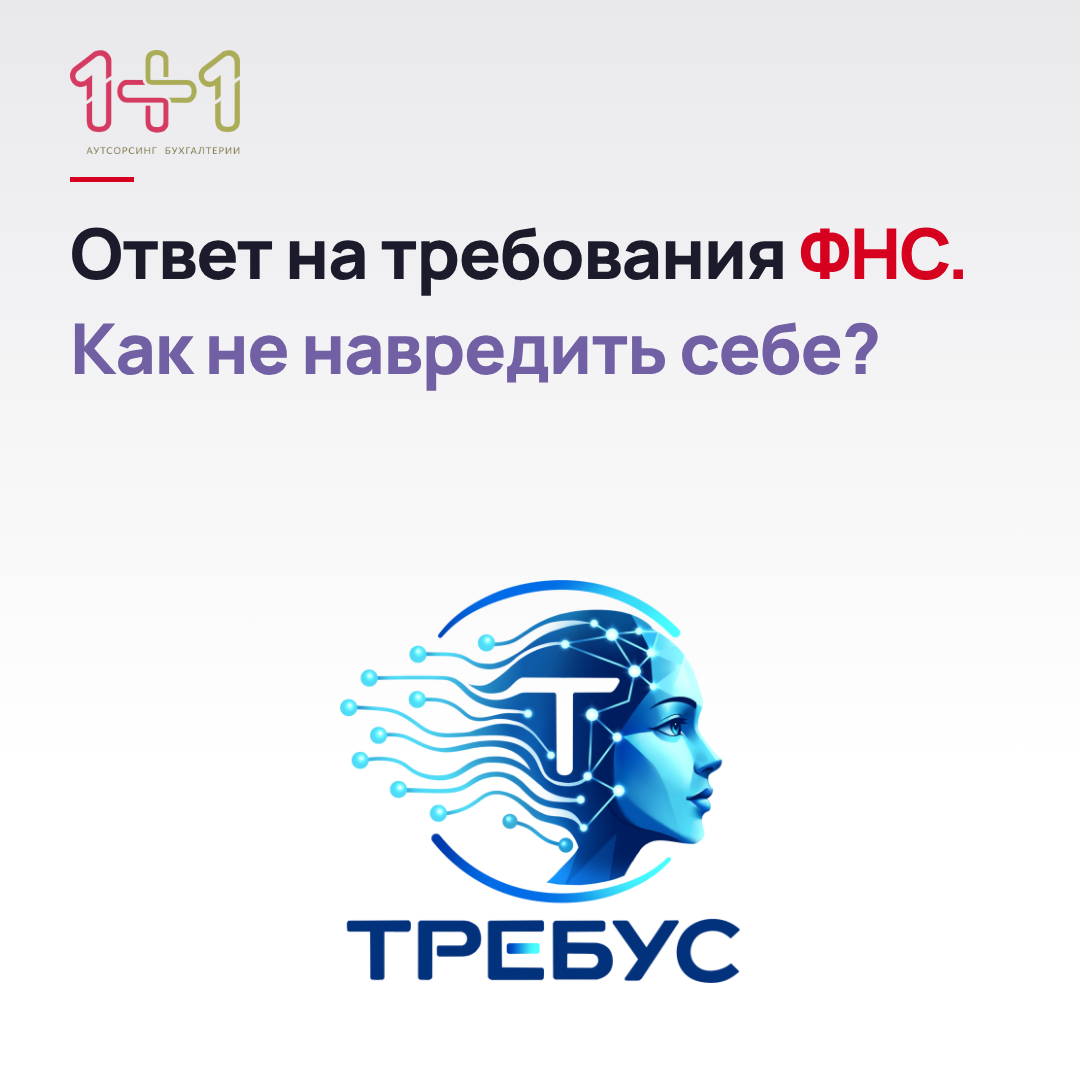
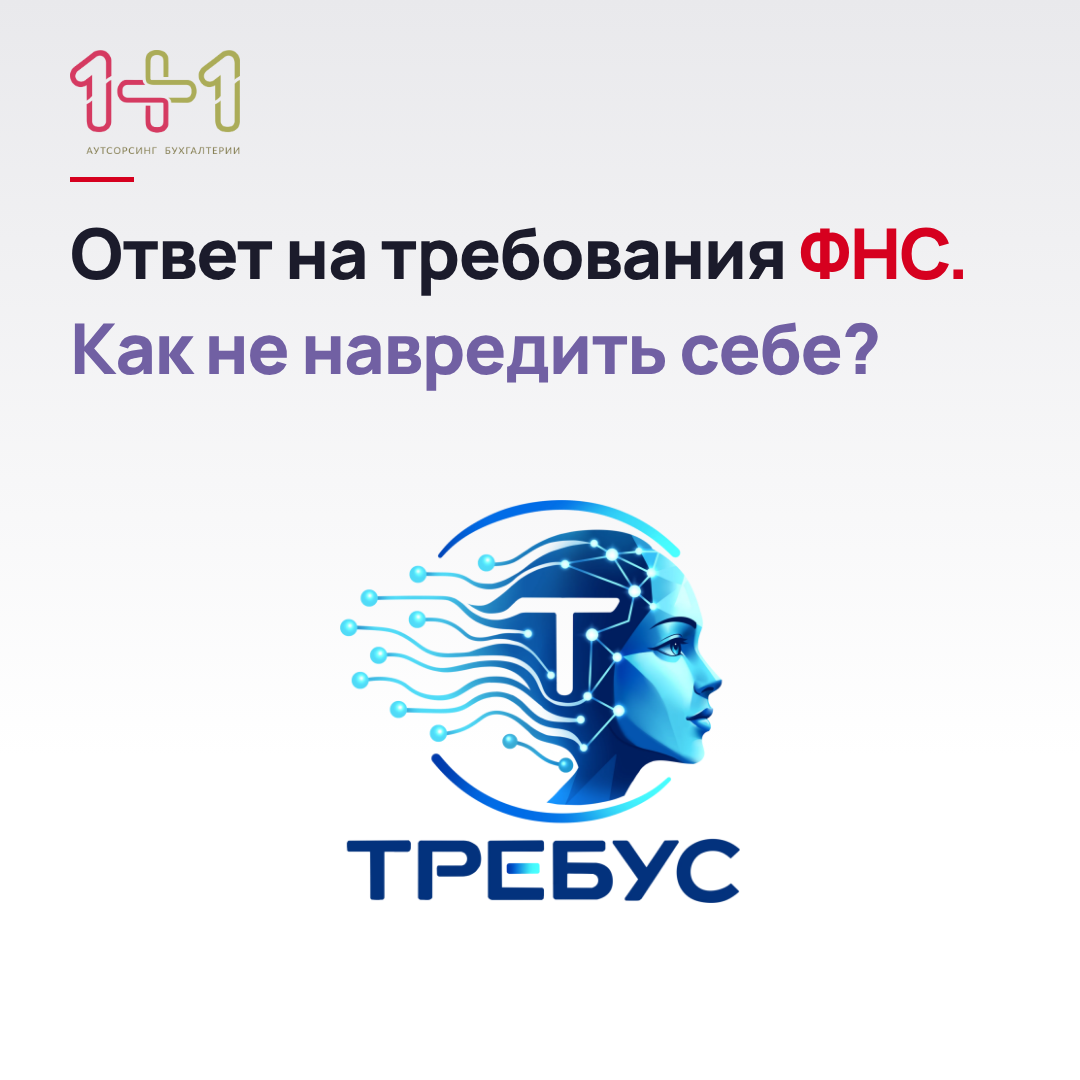
Partner square: tighten layout
Claude-Session: https://claude.ai/code/session_01DZEn5nyTAWE8zavBUm6caU

Changed region(s): [[0.3056, 0.4583, 0.7028, 0.9167]]

diff --git a/conference-skazbuh/social/partner-square.html b/conference-skazbuh/social/partner-square.html
@@ -8,7 +8,7 @@ body{position:relative;overflow:hidden;background:linear-gradient(180deg,#e9e9ec
 .h{position:absolute;left:70px;right:70px;top:215px;font-weight:800;color:#1b1b2b;font-size:70px;line-height:1.06;letter-spacing:-.02em}
 .h span{display:block;color:#7160a3;margin-top:.3em}
 .h b{color:#d6001f}
-.t{position:absolute;left:50%;margin-left:-200px;top:580px;width:400px}
+.t{position:absolute;left:50%;margin-left:-200px;top:500px;width:400px}
 .st{position:absolute;right:70px;top:50px;width:0px}
 </style></head><body>
 <img class="logo" src="logo-color.png"><div class="ln"></div>

diff --git a/conference-skazbuh/social/gen.py b/conference-skazbuh/social/gen.py
@@ -17,5 +17,5 @@ body{{position:relative;overflow:hidden;background:linear-gradient(180deg,#e9e9e
 <div class="h">Ответ на требования <b>ФНС.</b><span>Как не навредить себе?</span></div>
 <img class="t" src="trebus-cutout.png">
 </body></html>"""
-open("partner-square.html","w").write(page(1080,1080,70,170,70,50,215,400,580,0))
+open("partner-square.html","w").write(page(1080,1080,70,170,70,50,215,400,500,0))
 open("partner-story.html","w").write(page(1080,1920,104,240,90,110,420,500,1120,0))
